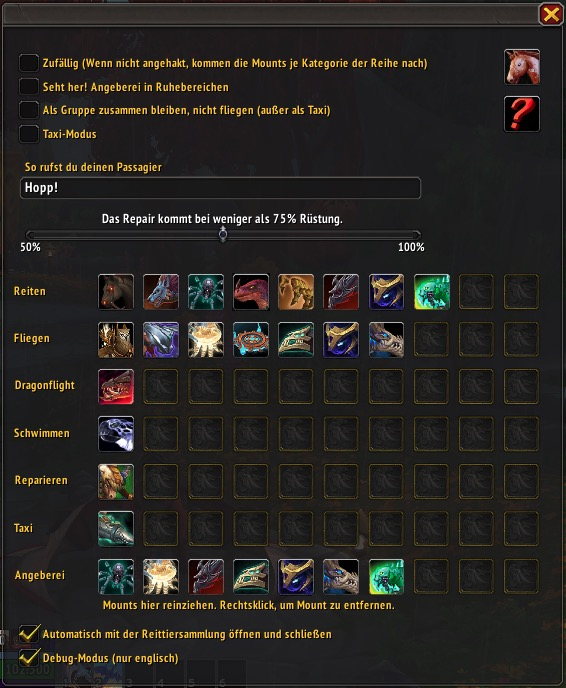
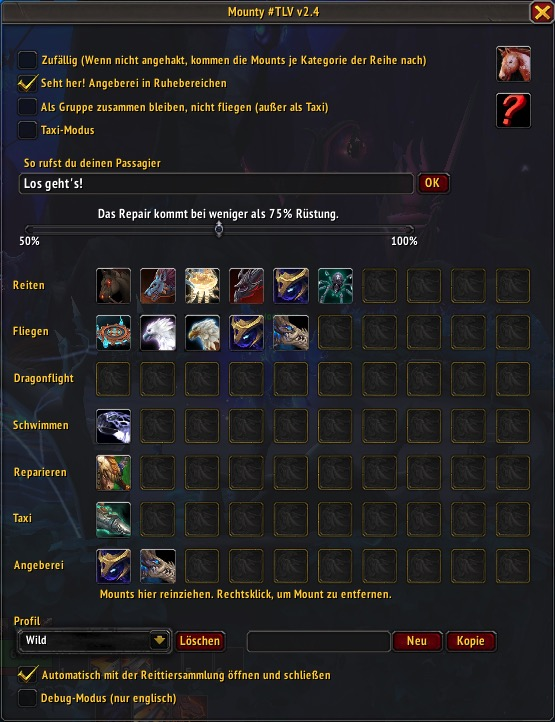
v2.4.1 - READMEs up to date

Changed region(s): [[0.0, 0.0, 1.0, 1.0], [0.6126, 0.1831, 0.6432, 0.2137]]

diff --git a/README.de.md b/README.de.md
@@ -1,4 +1,8 @@
-# Die Magie von Mounty #TLV
+# Die Magie von Mounty #TLV **
+
+## In jeder Situation das perfekte Mount!
+
+** Seit v2.3 sind die Drachen erwacht
 
 ---
 
@@ -25,7 +29,7 @@ Dann ist __Mounty #TLV__ genau das richtige Add-on für dich und mit nur __einem
 1. Installiere __Mounty #TLV__.
 2. Öffne WoWs _Reittiersammlung_. __Mounty #TLV__ sollte sich ebenfalls automatisch öffnen.
 3. Ziehe deine liebsten Reittiere mit der Maus in die entsprechenden Kategorien von __Mounty #TLV__.
-4. Öffne WoWs Tastaturbelegungen, wähle __Mounty #TLV__ und konfiguriere deine _magische Taste_. (z.B. ist meine #)
+4. Öffne WoWs Einstellungen für Tastaturbelegungen, wähle __Mounty #TLV__ und konfiguriere deine _magische Taste_. (z.B. ist meine #)
 5. Drücke deine _magische Taste_ um hier und jetzt immer das perfekte Reittier zu rufen.
 6. Genieße __Mounty #TLV__ und schau dir gerne auch alle weiteren Optionen und Mögichkeiten an.
 
@@ -33,28 +37,32 @@ Dann ist __Mounty #TLV__ genau das richtige Add-on für dich und mit nur __einem
 
 # Anleitung
 
-## In jeder Situation das perfekte Mount!
+## Also, in jeder Situation das perfekte Mount!
 
 Wenn du das Glück hast, Besitzer:in von mehreren Mounts zu sein, dann weißt du auch, dass sich darunter auch immer das beste befindet; und zwar je nach Situation, in der du dich gerade befindest.
 
-__Mounty #TLV__ unterscheidet zwischen __6 Kategorien für deine Mounts__:
+__Mounty #TLV__ unterscheidet zwischen __7 Kategorien für deine Mounts__:
 
 - __Boden-Mounts__ - Mounts und Vehikel, die richtig viel Spaß machen, dabei aber mit festen Füßen auf der Erde stehen.
 - __Flug-Mounts__ - Sie breiten ihre Flügel aus oder starten ihre Propeller, um den Himmel zu erobern. Mit dir fest in ihrem Sattel.
+- __Dragonflight__ - Zwei Flügel, Feuer im Rachen, kein Propeller und trotzdem schneller als der Teufel. Ride the Dragons!
 - __Wasser-Mounts__ - Es gibt oder gab Mounts, die sogar auf dem Wasser gehen konnten. In jedem Fall aber gibt es Mounts, die im Wasser schneller schwimmen als alle anderen, damit du nicht zu lange die Luft anhalten musst.
 - __Reparier-Mounts__ - Du weißt, welche ich damit meine und du hast so eins auch. - oder musst du immer wieder stundenlang bis zum nächsten Amboss laufen, um deine Rüstung wieder zum Glänzen zu bringen?
 - __Taxi-Mounts__ - Ein Beifahrer-Platz für einen guten Freund ist perfekt für gemeinsames Questen, farmen und kämpfen Hand in Hand. Vor allen Dingen, wenn dein Taxi Flügel hat, und dein Freund noch nicht gelernt hat zu fliegen. Er wird dir auf ewig dankbar sein.
 - __Angeber-Mounts__ - Du hast Stunden, Tage, sogar Wochen damit verbracht, dieses eine ganz besondere Mount deiner Träume zu ergattern. Es wird nie wieder ein besseres Mount geben. Vielleicht ab morgen wieder. Für heute aber musst du allen zeigen: Es ist für immer deins!
-  
-Du kannst __jeder dieser 6 Kategorien 10 verschiedene Lieblings-Mounts__ zuordnen. Einfach aus der Mount-Sammlung heraus mit der Maus herüberziehen.
+
+Du kannst __jeder dieser Kategorien 10 verschiedene Lieblings-Mounts__ zuordnen. Einfach aus der Mount-Sammlung heraus mit der Maus herüberziehen.
 Und du kannst __diese eine magische Taste__ belegen, die für dich zaubern wird.
 
 ## So wirkt die Magie
 
-Zwei Grundeinstellungen gibt es:
+Drei Grundeinstellungen gibt es:
 
 - _Taxi-Modus ein/aus_: Wer in dieser eingeschaltet ist und du in einer Gruppe bist, - dann werden Taxi-Mounts bevorzugt und deine Freunde aufgefordert, aufzuspringen.
 - _Nicht-fliegen-Modus an/aus_: Deine fliegenden Mounts bleiben im Stall, wenn du in einer Gruppe bist. Ideal wenn du einen Freund begleitest, der immer noch nicht fliegen kann. So bleibt ihr immer auf Augenhöhe und niemand zurück.
+- _Angeber-Modus an/aus_: Möchtest Du in Ruhebereichen Andere neidisch machen und dort immer eines Deiner Angeber-Mounts reiten?
+
+### Los geht es!
 
 Am Ende ist es ganz einfach. Wenn du __die magische Taste__ drückst, passiert folgendes:
 
@@ -66,7 +74,9 @@ Du hast gerade Tausende Gegner besiegt und deine Rüstung hängt in Fetzen herab
 
 Du bist in einer Gruppe mit Freunden und der Taximodus ist eingeschaltet? Mein Freund, wir rufen mein __Taxi-Mount__ und sausen gemeinsam davon. Los geht's!
 
-Du bist im Ruhebereich? Der perfekte Zeitpunkt, alle anderen mit einem __Angeber-Mount__ zu beeindrucken.
+Du bist im Ruhebereich und der Angeber-Modus ist eingeschaltet? Der perfekte Zeitpunkt, alle anderen mit einem __Angeber-Mount__ zu beeindrucken.
+
+Du bist auf den Dracheninseln und hast bereits erfahren dürfen, wie es ist, _storm born_ zu sein, dann weck den __Drachen__ auf.
 
 Du bist in einer Flug-Zone und in keiner Gruppe? Breite deine Flügel aus oder starte die Maschinen und hoch hinaus geht es in die Lüfte mit einem deiner liebsten __Flug-Mounts__.
 
@@ -80,19 +90,18 @@ Magisch, oder? Dank __Mounty #TLV__.
 
 ### Die ganze Magie in wenigen Worten
 
-``` 
-Die magische Taste wurde gedrückt ->\
-Du bist auf einem Mount und fliegst -> nichts passiert\
-Du bist auf einem Mount auf dem Boden -> Du sitzt ab\
-Du sitzt auf keinem Mount ->\
-Die Haltbarkeit deiner Rüstung ist unter xx% -> Reparier-Mount\
-Du bist in einer Gruppe, Taxi-Modus ist an -> Taxi-Mount\
-Du bist im Ruhebereich -> Angeber-Mount\
-Du bist in einer Flug-Zone, allein -> Flug-Mount\
-Du bist in einer Flug-Zone, in einer Gruppe und der Nicht-fliegen-Modus ist aus -> Flug-Mount\
-Du schwimmst im Wasser -> Wasser-Mount\
-sonst -> Boden-Mount\
-```
+>__Die magische Taste wurde gedrückt, und dann ...__\
+>Du bist auf einem Mount und fliegst -> _nichts passiert_\
+>Du bist auf einem Mount auf dem Boden -> _Du sitzt ab_\
+>Du sitzt auf keinem Mount ...\
+>Die Haltbarkeit deiner Rüstung ist unter xx% -> _Reparier-Mount-\
+>Du bist in einer Gruppe, Taxi-Modus ist an -> _Taxi-Mount_\
+>Du bist im Ruhebereich, Angeber-Modus ist an -> _Angeber-Mount_\
+>Du bist auf den Dracheninseln -> _Drachen_\
+>Du bist in einer Flug-Zone, allein -> _Flug-Mount_\
+>Du bist in einer Flug-Zone, in einer Gruppe und der Nicht-fliegen-Modus ist aus -> _Flug-Mount_\
+>Du schwimmst im Wasser -> _Wasser-Mount_\
+>sonst -> _Boden-Mount_\
 
 ### Und wenn eine Kategorie leer ist?
 
@@ -104,7 +113,7 @@ Wenn eine Kategorie leer ist, wird stattdessen eines deiner __Flug-Mounts__ ausg
 
 ### Sonderfälle
 
-- Sonderfall 1: Falls du noch nicht gelernt hast zu fliegen, werden Boden-Mounts immer bevorzugt.
+- Sonderfall 1: Flug-Mounts und Drachen werden nur dann gerufen, wenn Du auch gelernt hast, diese zu reiten.
 - Sonderfall 2: In Ruhebereichen, in denen du fliegen kannst, werden nur fliegende Angeber-Mounts ausgewählt.
 
 # Konfigurieren und benutzen
@@ -120,30 +129,37 @@ Ziehe mit der Maus deine favorisierten Mounts in die Kategorien deiner Wahl. Mit
 ## Optionen
 
 - __Zufall__ - Falls _eingeschaltet_, wird ein zufälliges Mount aus der jeweiligen _Kategorie_ ausgewählt. Falls _ausgeschaltet_, kommt eins nach dem anderen immer der Reihe nach und wieder von vorne.
-- __Nicht fliegen__ - Solang du in einer Gruppe bist: Auch wenn du fliegen könntest, du bleibst immer auf dem Boden. Was hat das für einen Sinn? Falls du einen Freund begleitest, der noch nicht fliegen kann, und diesem beim Questen, dann ist es schon fair, wenn du ihm nicht immer wieder davonfliegst, außer ...
+- __Seht her!__ - In Ruhebereichen wird automatisch eines Deiner Angeber-Reittiere aus dem Sack geholt, damit alle wissen, dass Du monatelang in Zereth Mortis geangelt hast.
+- __Zusammen bleiben__ - Solang du in einer Gruppe bist: Auch wenn du fliegen könntest, du bleibst immer auf dem Boden. Was hat das für einen Sinn? Falls du einen Freund begleitest, der noch nicht fliegen kann, und diesem beim Questen, dann ist es schon fair, wenn du ihm nicht immer wieder davonfliegst, außer ...
 - __Taxi-Modus__ - Unterwegs mit einem Freund, der mit deiner Unterstützung vorankommen will? Solange du in einer Gruppe bist, wird immer dein Taxi-Mount gerufen, so dass dein Freund bequem aufspringen kann und sich um nichts kümmern muss. Er hat ja dich.
 - __So rufst du ...__ - Mit deinem Taxi-Mount erscheint auch dieser Aufruf im Chat, damit dein Freund die Abfahrt nicht verpasst. (Nur in einer Gruppe)
 - __Haltbarkeit__ - Hier stellst du den Wert ein, der dafür sorgt, dass dein Reparier-Mount kommt, wenn deine Rüstung aussieht wie eine Murloc-Unterhose.
 - __Debug__ - Magie in Zahlen. Siehe selbst, was __Mounty #TLV__ dir alles im Chat verrät.
 
+### Profile
+
+Wie in vielen anderen Addons kannst Du verschiedene Profile anlegen.
+
 ## Kommandozeile
 
-Für den Chat oder Deine Makros
+Für den Chat oder Deine Makros:
+
+__Version__
+
+_/mounty version_  - zeigt die aktuelle Version des Addons
 
 __Optionen__
 
 _/mounty_  - um das Optionsfenster zu öffnen
 
-_/mounty debug on_ - schaltet den Debug-Modus ein\
-_/mounty debug off_ - schaltet den Debug-Modus ein\
-_/mounty auto on_ - schaltet den Auto-Öffnen-Modus ein\
-_/mounty auto off_ - schaltet den Auto-Öffnen-Modus aus\
-_/mounty fly on_ - schaltet den Nicht-fliegen-Modus aus(!)\
-_/mounty fly off_ - schaltet den Nicht-fliegen-Modus ein(!)\
-_/mounty random on_ - schaltet den Zufalls-Modus ein\
-_/mounty random off_ - schaltet den Zufalls-Modus aus\
-_/mounty taxi on_ - schaltet den Taxi-Modus ein\
-_/mounty taxi off_ - schaltet den Taxi-Modus ein\
+__Optionen umschalten__
+
+_/mounty random on|off_ (Zufällig oder in Reihenfolge)\
+_/mounty showoff on|off_ (Angeber, Angeber!)\
+_/mounty together on|off_ (Zusammen bleiben)\
+_/mounty taxi on|off_ (Taxi Reittiere verwenden)\
+_/mounty auto on|off_ (Optionen automatisch öffnen)\
+_/mounty debug on|off_ (Debug Infos anzeigen)\
 
 __Summoning__
 
@@ -157,6 +173,11 @@ _/mounty taxi_ - beschwört ein Taxi-Mount\
 _/mounty showoff_ - beschwört ein Angeber-Mount\
 _/mounty random_ - beschwört ein zufälliges Mount
 
+_/mounty profile_ - zeigt das aktuelle Profil\
+_/mounty profile Heart_ - schaltet auf das Profil Heart um und erstellt es falls nicht vorhanden\
+_/mounty profile Wild Heart_ - kopiert das Profil Heart zu Profil Wild\
+_/mounty profile delete Heart_ - löscht das Profil Heart
+
 ## Tastenbelegung
 
 Benutze die Einstellungen von WoW, um Tasten für __Mounty #TLV__ zu belegen.
@@ -165,11 +186,12 @@ Neben der _magischen Taste_ kannst du auch ein paar _Spezialtasten_ belegen, um 
 
 Hier zum Beispiel meine Konfiguration:
 
-- \# ->  _Magische Taste_
-- CTRL-# ->  _Reparier-Mount_
-- SHIFT-# ->  _Taxi-Mount_
-- ALT-# ->  _Wasser-Mount_
-- CTRL-Space ->  _Angeber-Mount_
+- \# -> _Magische Taste_
+- CTRL-# -> _Reparier-Mount_
+- SHIFT-# -> _Taxi-Mount_
+- ALT-# -> _Wasser-Mount_
+- CTRL-ALT-# -> _Boden-Reittier_
+- CTRL-Space -> _Angeber-Mount_
 
 # Dankeschön!
 

diff --git a/README.md b/README.md
@@ -1,4 +1,8 @@
-# The magic of Mounty #TLV
+# The magic of Mounty #TLV **
+
+## Always the perfect mount in any given situation!
+
+** Since v2.3 ready to wake some dragons
 
 ---
 
@@ -33,14 +37,15 @@ All this can be done with __Mounty #TLV__ and all this will happen _magically_ w
 
 # Manual
 
-## Always the perfect mount in any given situation!
+## So, always the perfect mount in any given situation!
 
 If you are lucky and got a few mounts in your collection, then it's quite simple to name the right mount to summon in every situation. Depending on the actual circumstances you are in.
 
-__Mounty #TLV__ offers __6 categories__ for your mounts:
+__Mounty #TLV__ offers __7 categories__ for your mounts:
 
 - __Ground mounts__ - Mounts, which are big fun to ride, always with their feet on the ground.
 - __Flying mounts__ - These can spread their wings or ignite their rockets to reach for the sky, with you on their back.
+- __Dragonflight__ - Two wings, spitting fire, dead eyes and faster than the devil. Ride the dragons!
 - __Water mounts__ - There are/were mounts which could walk on the water. At least there are few which are faster swimmers than others, so you don't have to hold your breath too long.
 - __Repair mounts__ - You got one of these, haven't you? Or do you still have to run miles to the next anvil, to get bat to 100% durability?
 - __Taxi mounts__ - A passenger's seat for a good friend is perfect for questing, farming, and fighting together hand in hand. Especially when your taxi has wings, and your friend doesn't know how to fly. He'll never forget your helping wing erm hand.
@@ -55,7 +60,10 @@ And you can assign this __one and only magic key__, which does its magic when pr
 Via checkboxes you can decide between the following:
 
 - _Taxi mode_ on/off: If on and you are in a group, prefer your taxi mount to summon and call for your friend to hop on.
-- _Don't fly mode_ on/off: Your winged mounts will (mostly) be ignored whilst in a party. Helpful if you joined friends, who can't fly yet and don't want to be left behind.
+- _Together mode_ on/off: Your winged mounts will (mostly) be ignored whilst in a party. Helpful if you joined friends, who can't fly yet and don't want to be left behind.
+- _Show off mode_: Whilst in resting areas you can rest. And let others know which jelly fish, erm mounts you've got and they hopefully haven't.
+
+### Here we go!
 
 In the end its quite simple. When the __magic key is pressed__, it goes like this:
 
@@ -67,13 +75,15 @@ You just killed thousands of enemies and your durability is lower than the thres
 
 You hang around with friends and your _taxi mode_ is on? My friend, we call for a __taxi mount__ to ride away together. Hop on!
 
-You are in a resting area? Time to impress everyone around with one of your favorite __show off mounts__.
+You are in a resting area and _show off mode_ is activated? Time to impress everyone around with one of your favorite __show off mounts__.
+
+You're on the Dragon isles and already experienced what it is like to be storm born? Mate, its time to wake the __dragon__!
 
 You're in a flight zone, all alone? Spread your wings or start your engines and up, up, up it goes with your favorite __fly mount__.
 
-You're in a flight zone with friends and didn't deactivate flying via _don't fly mode_? Jump on your __fly mount__ as race the skies with your friends.
+You're in a flight zone with friends but didn't activate _together mode_? Jump on your __fly mount__ and race the skies with your friends.
 
-It is sad that you can't fly, and it gets worse, cause you're swimming in cold water, but at least now you will summon your __water mount__ to get back to the beach asap.
+It is sad that you can't fly, and it gets worse, cause you're floating in cold water, but at least now you will summon your __water mount__ to get back to the beach asap.
 
 None of the above did come true: Now it's time to get back to where it all started by climbing on the back of these good old __ground mounts__ and take your ride to all five horizons.
 
@@ -81,19 +91,18 @@ Magic done. By __Mounty #TLV__.
 
 ### The full magic in less words
 
-```
-Magic key is pressed ->\
-Are you mounted and flying -> Do nothing\
-Are you mounted and not flying -> Dismount\
-You are not mounted ->\
-Your durability is lower than xx% (see options) -> Repair mount\
-You are party member, 'taxi mode' is on -> Taxi mount\
-You are in a resting area -> Show off mount\
-You are in a flight zone, all alone -> Fly mount\
-You are in a flight zone with friends and 'don't fly mode' is off -> Fly mount\
-You are swimming -> Water mount\
-else -> Ground mount\
-```
+>__Magic key is pressed, so now ...__\
+>Are you mounted and flying -> _Do nothing_\
+>Are you mounted and not flying -> _Dismount_\
+>You are not mounted ...\
+>Your durability is lower than xx% (see options) -> _Repair mount_\
+>You are party member, _taxi mode_ is on -> _Taxi mount_\
+>You are in a resting area, _show off mode_ is active -> _Show off mount_\
+>You're on the Dragon isles -> _Dragon_
+>You're in a flight zone, all alone -> _Fly mount_\
+>You're in a flight zone with friends and _together mode_ is off -> _Fly mount_\
+>You are swimming -> _Water mount_\
+>else -> _Ground mount_
 
 ### But there is still more than that
 
@@ -101,12 +110,12 @@ __Mounty #TLV__ will choose the perfect category as described above. But there m
 
 In this case there is a _fallback_:
 
-If a category is empty, it will then select one of your __flying mounts__.  And if there are none, too, it will select one of your __ground mounts__.  And if those are also missing, then there is only one last thing __Mounty #TLV__ can do for you: Randomly summon __any mount out of your whole collection__, preferring your favorites if there are any. 
+If a category is empty, it will then select one of your __flying mounts__.  And if there are none, too, it will select one of your __ground mounts__.  And if those are also missing, then there is only one last thing __Mounty #TLV__ can do for you: Randomly summon __any mount out of your whole collection__, preferring your favorites if there are any.
 
 ### Exceptions
 
-- Exception 1: In flyable resting areas only flyable show off mounts will be chosen.
-- Exception 2: As long as you haven't given to fly yet, ground mounts will always be prefered before fly mounts.
+- Exception 1: As long as you haven't given to fly yet, ground mounts will always be prefered before dragons and fly mounts.
+- Exception 2: In flyable resting areas only flyable show off mounts will be chosen.
 
 # How to configure and use
 
@@ -121,30 +130,37 @@ Drag & drop all your favorite mounts into the categories of your choice. Click r
 ## Options
 
 - __Random__ - If _on_, __Mounty #TLV__ will randomly summon a mount of the selected _category_. If _off_ then it will cycle through one by one.
-- __Don't fly__ - Whilst you are in a party: Even if you are in a flight zone and have learned to fly, you will not and stay on the ground. Looking for any reason? If you joined a friend who can't fly yet and you want to help him progress, farm, or quest, then it's quite fair to stay with him and keep eye level. Except ...
+- __Look at me!__ - In resting areas everybody should see one of your show off mounts. Because everybody must know, that you went fishing in Zereth Mortis for hundreds of hours, just to get this one and only jelly fish.
+- __Stay together__ - Whilst you are in a party: Even if you are in a flight zone and have learned to fly, you will not and stay on the ground. Looking for any reason? If you joined a friend who can't fly yet and you want to help him progress, farm, or quest, then it's quite fair to stay with him and keep eye level. Except ...
 - __Taxi mode__ - You want to help a friend and give him some rides whilst questing and farming together, then turn this on. When in a party and you summon your mount, your taxi mount will arrive. Where to?
 - __How to call ...__ - Say it! When your taxi arrives this short line of text will be chatted, so your friend will hop on and not let you wait. (Only if in group)
 - __Durability threshold__ - When your durability is lower than this, there's always a big hand for summoning your repair mount first. It's another kind of magic.
 - __Debug mode__ - Magic in numbers and letters. See for yourself what __Mounty #TLV__ let's you know via chat messages.
 
+### Profiles
+
+You can use different profiles like in many other addons.
+
 ## Command line
 
-Type in chat or use in macros
+Type in chat or use in macros:
+
+__Version__
+
+_/mounty version_  - to show the current version of the addon
 
 __Options__
 
 _/mounty_  - to open the options frame
 
-_/mounty debug on_ - to turn debug mode on\
-_/mounty debug off_ - to turn debug mode off\
-_/mounty auto on_ - to turn auto open mode on\
-_/mounty auto off_ - to turn auto open mode off\
-_/mounty fly on_ - to turn don't fly mode off(!)\
-_/mounty fly off_ - to turn don't fly mode on(!)\
-_/mounty random on_ - to turn random mode on\
-_/mounty random off_ - to turn random mode off\
-_/mounty taxi on_ - to turn taxi mode on\
-_/mounty taxi off_ - to turn taxi mode off
+__Switch options__
+
+_/mounty random on|off_ (Random or cycle throught)\
+_/mounty showoff on|off_ (Show off, show off!)\
+_/mounty together on|off_ (Let's stay together)\
+_/mounty taxi on|off_ (Use taxi mounts)\
+_/mounty auto on|off_ (Auto open options frame)\
+_/mounty debug on|off_ (Show debug info)\
 
 __Summoning__
 
@@ -158,6 +174,11 @@ _/mounty taxi_ - to summon taxi mount\
 _/mounty showoff_ - to summon show off mount\
 _/mounty random_ - to summon random mount
 
+_/mounty profile_ - to show the current used profile\
+_/mounty profile Heart_ - to switch to or create the profile Heart\
+_/mounty profile Wild Heart_ - to copy the settings of profile Heart to profile Wild\
+_/mounty profile delete Heart_ - to delete profile Heart 
+
 ## Binding keys
 
 __Use _system key bindings_ to assign your magic key.__
@@ -170,6 +191,7 @@ For example, my config is like this:
 - CTRL-# -> _Repair mount_
 - SHIFT-# -> _Taxi mount_
 - ALT-# -> _Water mount_
+- CTRL-ALT-# -> _Ground mount_
 - CTRL-Space -> _Show off mount_
 
 # Thank you!

diff --git a/CHANGELOG.md b/CHANGELOG.md
@@ -2,6 +2,9 @@
 
 Full changelog: https://github.com/last-voice/mounty/blob/main/CHANGELOG.md
 
+v2.4.1
+- READMEs up to date
+
 v2.4
 - Here come the profiles
 - Version in Title
